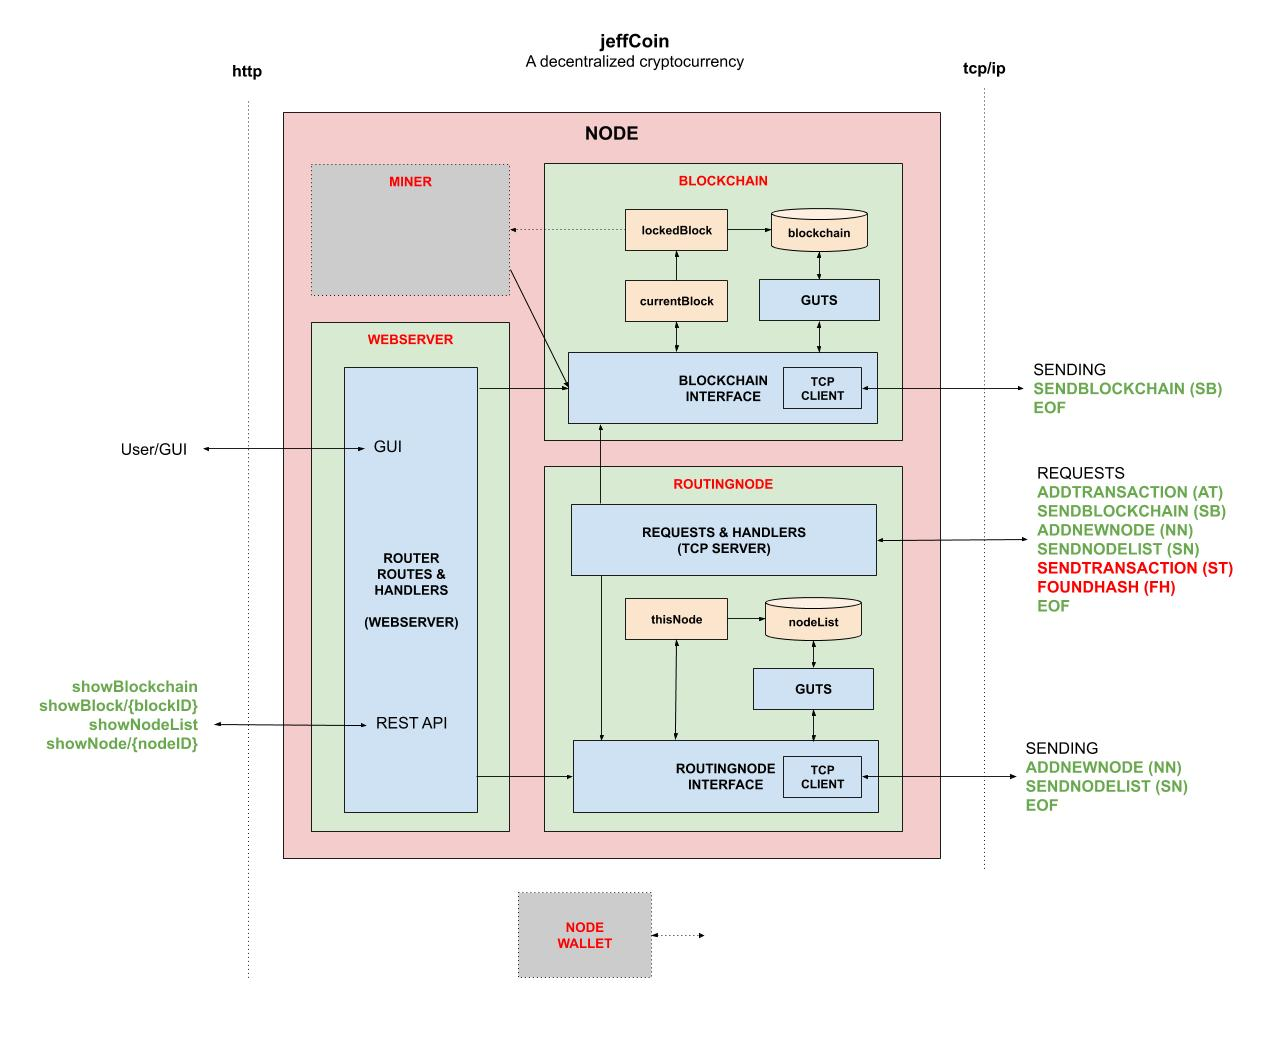
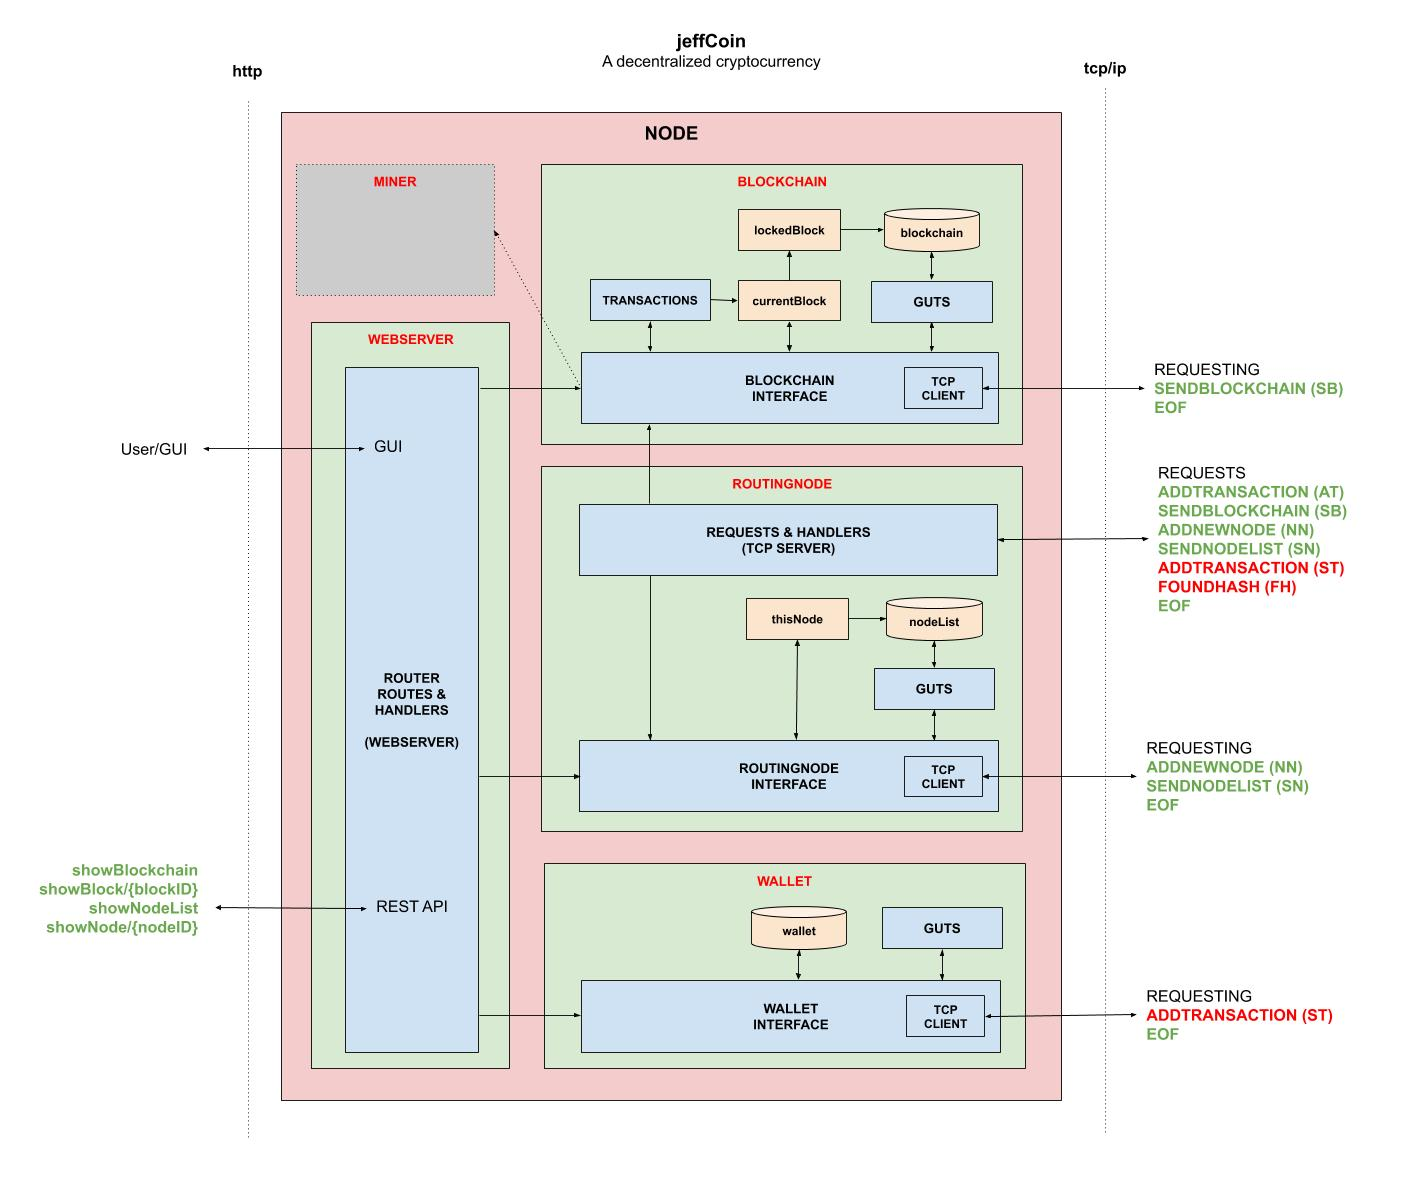
adding transactions

diff --git a/README.md b/README.md
@@ -145,6 +145,10 @@ The states of a block are,
 
 * ???
 
+This may help understand transactions,
+
+![IMAGE - transactions-and-ledger - IMAGE](docs/pics/transactions-and-ledger.jpg)
+
 ## 2. MINER
 
 The miner. tbd.
